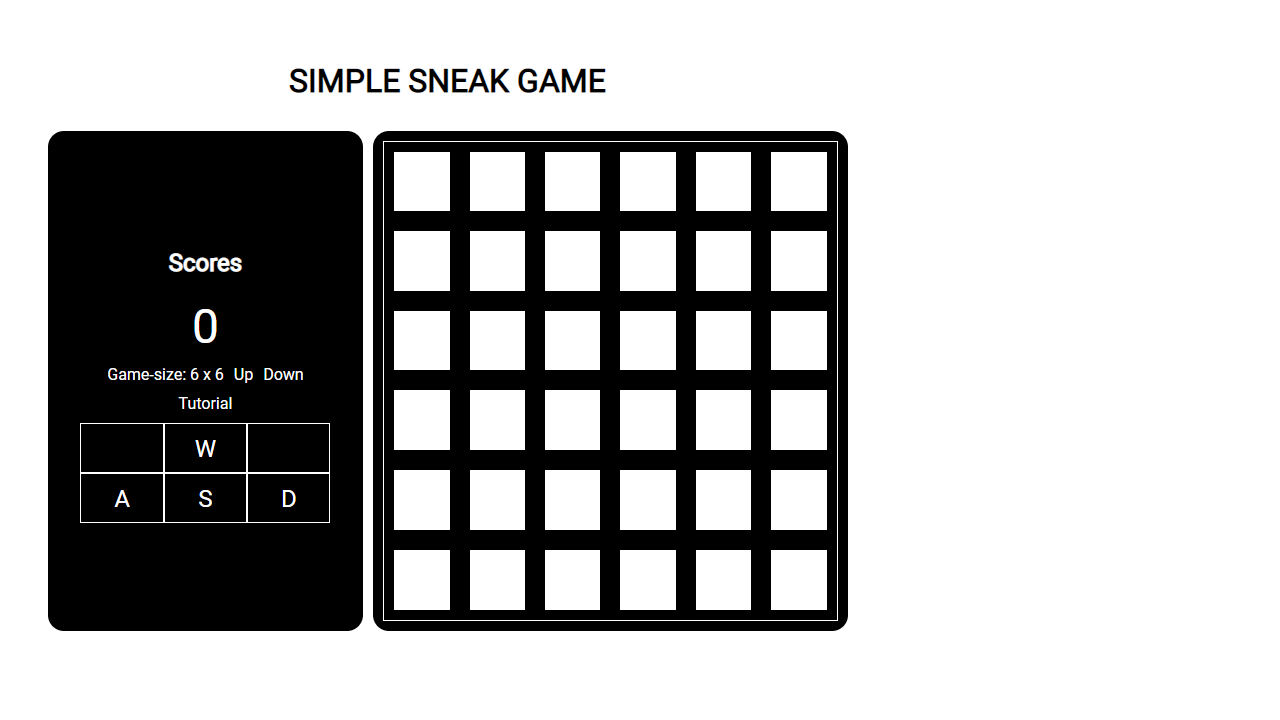
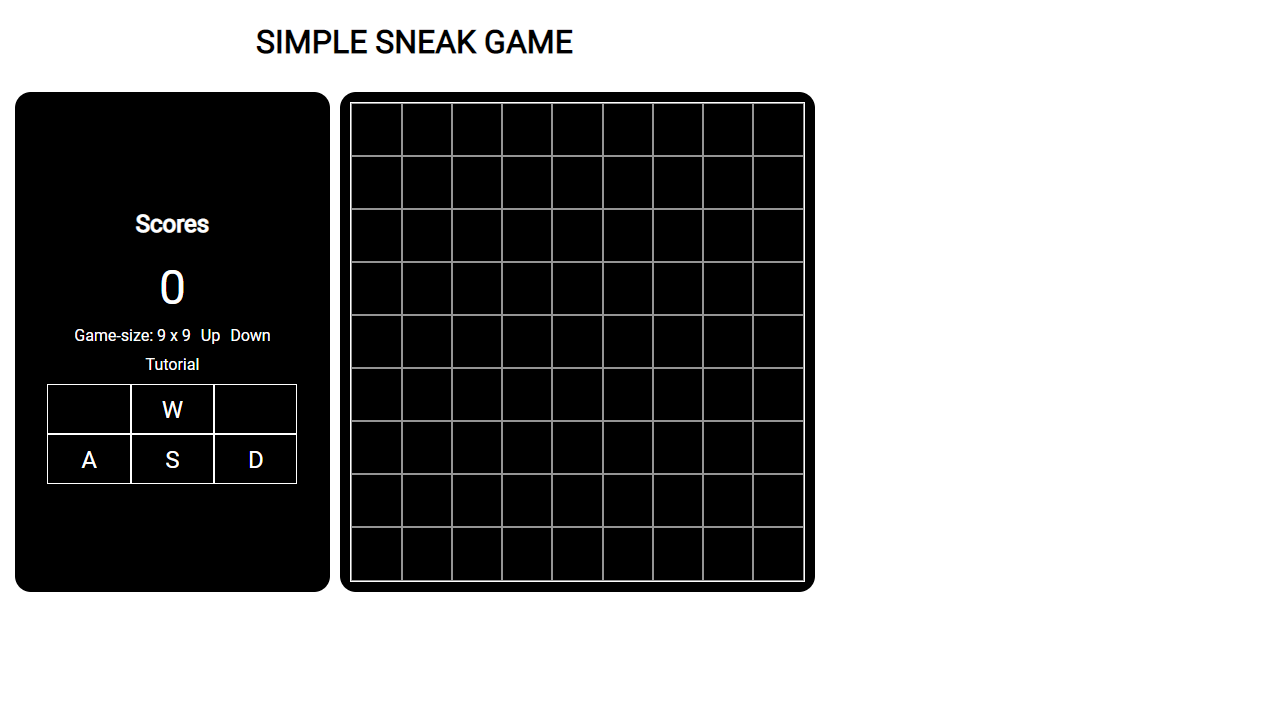
update readme

Changed region(s): [[0.0, 0.0306, 0.6875, 0.8861]]

diff --git a/src/components/MGame.vue b/src/components/MGame.vue
@@ -51,7 +51,6 @@ export default {
     }
     .m-cube{
         display: flex;
-        background-color: white;
-        margin: 10px;
+        border: 1px solid rgba(255, 255, 255, 0.58);
     }
 </style>
